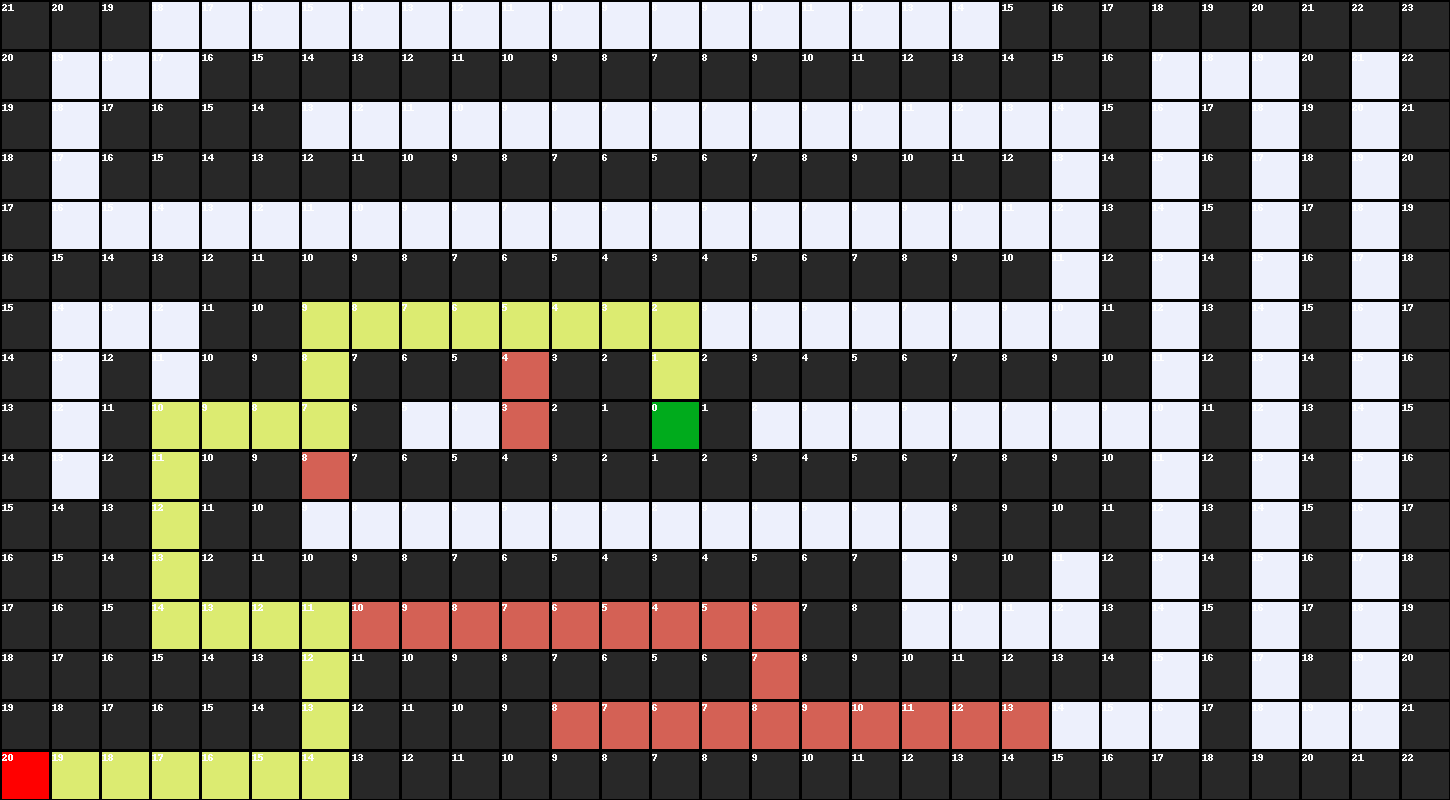
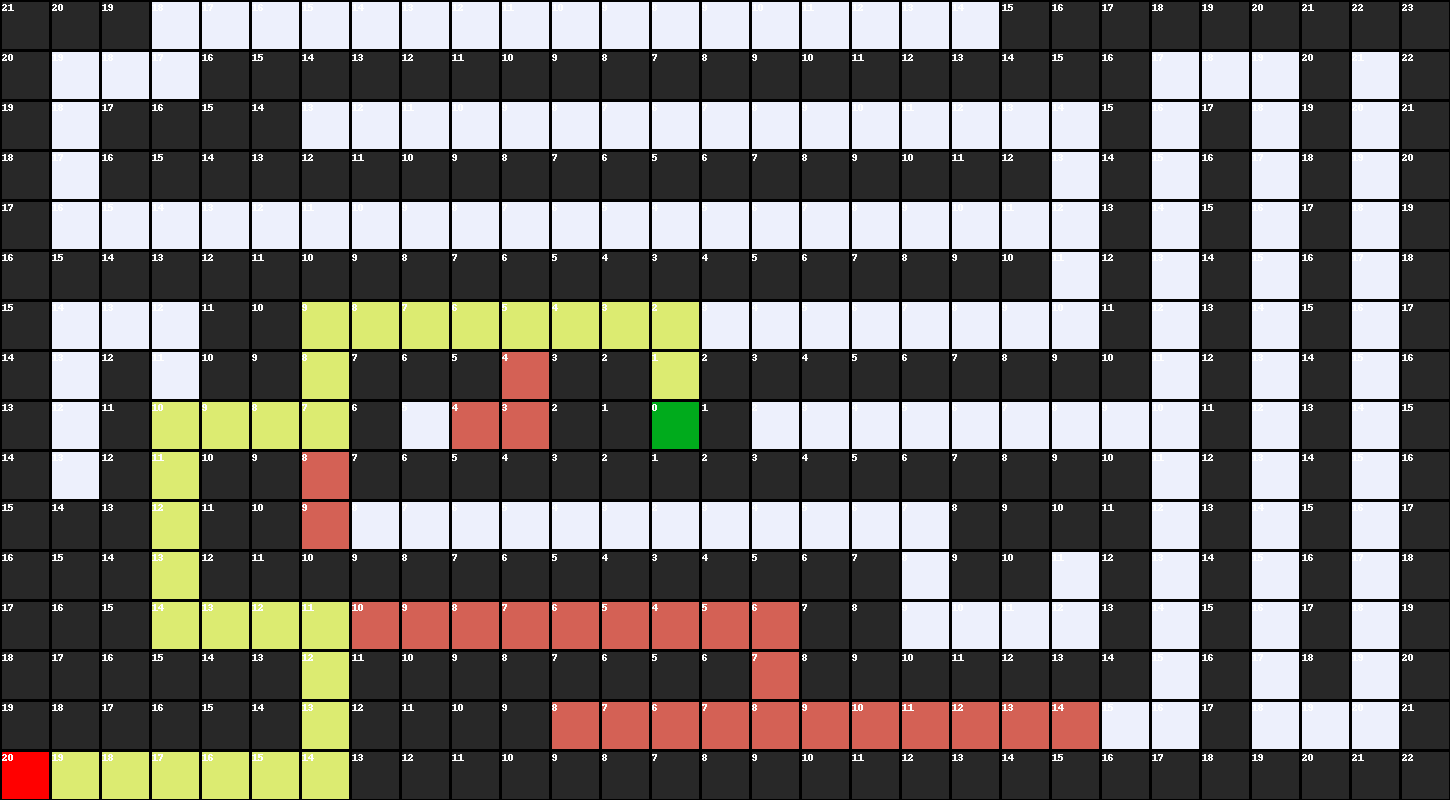
added new attribute to init func

Changed region(s): [[0.7138, 0.875, 0.7759, 0.9375], [0.1862, 0.625, 0.2483, 0.6875], [0.3103, 0.5, 0.3414, 0.5625]]

diff --git a/a-star/maze.py b/a-star/maze.py
@@ -2,12 +2,12 @@ import sys
 from operator import attrgetter
 
 class Node():
-    def __init__(self, state, parent, action, cost):
+    def __init__(self, state, parent, action, cost, fCost):
         self.state = state
         self.parent = parent
         self.action = action
-        self.cost = cost
-        # self.heuristic = heuristic
+        self.cost = cost #heuristic cost
+        self.fCost = fCost #final cost for a star algo f(n) = g(n) + h(n)
 
 
 class StackFrontier():
@@ -51,17 +51,19 @@ class GBFS(StackFrontier):
             node =  min(self.frontier,key=attrgetter('cost'))
             self.frontier.remove(node)
             return node
+
+class AStar(StackFrontier):
+
+    def remove(self):
+        if self.empty():
+            raise Exception("empty frontier")
+        else:
+            # nIdx = 0
         
-# class AStar(StackFrontier):
-
-#     def remove(self):
-#         if self.empty():
-#             raise Exception("empty frontier")
-#         else:
-#             node =  self.frontier
-#             self.frontier.remove(node)
-#             return node
-
+            node = min(self.frontier, key=lambda node: node.fCost)
+            self.frontier.remove(node)
+            return node
+    
 class Maze():
     
     def __init__(self, filename):
@@ -150,8 +152,8 @@ class Maze():
         self.num_explored = 0
 
         # Initialize frontier to just the starting position
-        start = Node(state=self.start, parent=None, action=None,cost=-1)
-        frontier = GBFS()
+        start = Node(state=self.start, parent=None, action=None,cost=-1, fCost=0)
+        frontier = AStar()
         frontier.add(start)
 
         # Initialize an empty explored set
@@ -191,8 +193,10 @@ class Maze():
             # Add neighbors to frontier
             for action, state in self.neighbors(node.state):
                 if not frontier.contains_state(state) and state not in self.explored:
+                    pathCost = node.cost + 1
                     distance = self.calculateFunction(state,self.goal)
-                    child = Node(state=state, parent=node, action=action,cost=distance)
+                    fCost = pathCost + distance
+                    child = Node(state=state, parent=node, action=action,cost=distance, fCost=fCost)
                     frontier.add(child)
             for i in range(self.width):
                 _cost= []
